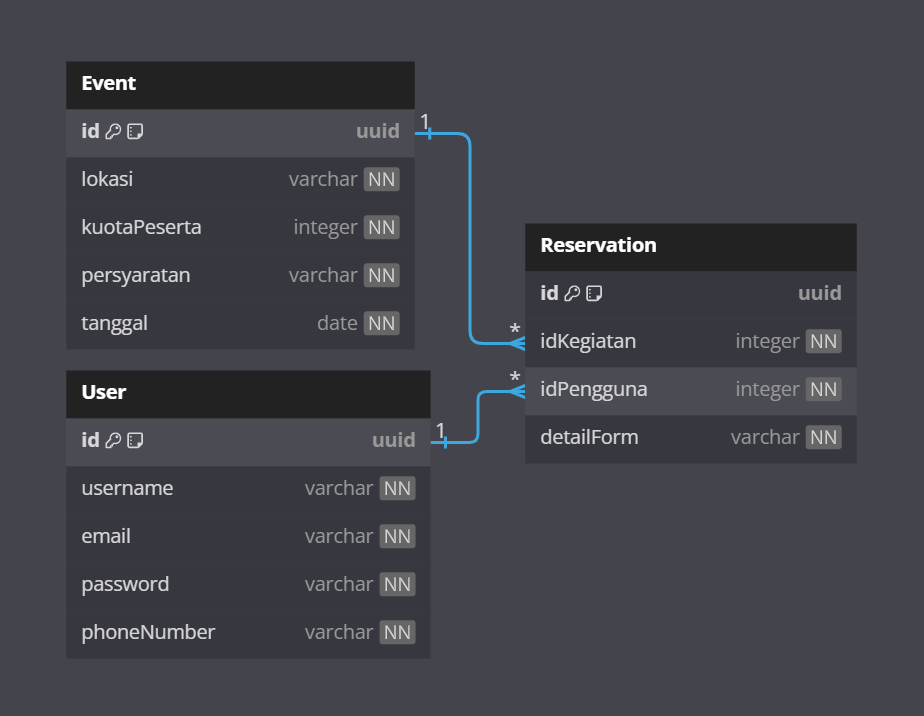
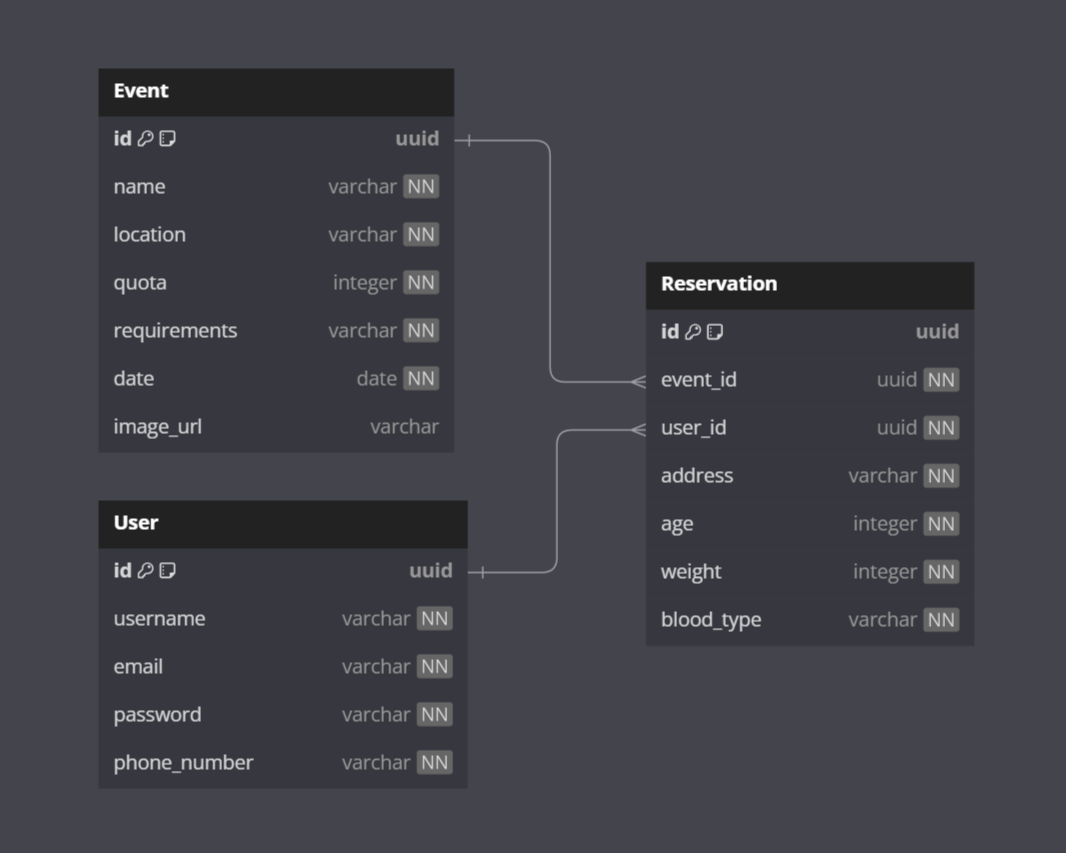
update readme & ERD

Changed region(s): [[0.0606, 0.0615, 0.9394, 0.7374], [0.0606, 0.4302, 0.5152, 0.9218], [0.0909, 0.3687, 0.2424, 0.3994]]

diff --git a/README.md b/README.md
@@ -1,23 +1,39 @@
 # blood-nation-backend
 BloodNation is an application designed to facilitate blood donation by helping users find locations for blood donation events and make reservations to participate in these events.
 
-**application build** :
-1. `npm init -y`
-2. `npm i sequelize`
-3. `npm i --save-dev sequelize-cli`
-4. `npm i pg`
-5. `npm i express`
-6. `npm i bcrypt`
-7. `npm i jsonwebtoken`
-8. `npm i dotenv`
-9. `npm i uuid-validate`
+## Installation
+1. Clone this repository
+```bash
+ git clone https://github.com/thecourtstats/court-app.git
+```
 
-**application sequelize cli** :
-1. `npx sequelize init`
-2. `npx sequelize db:create`
-3. `npx sequelize model:generate --name <table-name> --attributes <field>:<data-type>,<field>:<data-type>...`
-4. `npx sequelize db:migrate`
-→ `npx sequelize db:migrate:undo --name <migration--name>`
-5. `npx sequelize seed:generate --name <file-name>`
-6. `npx sequelize db:seed --seed <seeders-name>`
-→ `npx sequelize db:seed:undo --seed <seeders-name>`
+2. Get all dependencies
+```bash
+ npm install
+```
+
+3. Run the application
+```bash
+ npm run start
+```
+
+## Documentation
+The documentation is available on [Blood Nation API Docs](https://documenter.getpostman.com/view/31622292/2sA35LVfHq).
+
+## ERD
+This is the **Entity Relationship Diagram** of Blood Nation App.
+<img src="ERD.png" width="600" />
+
+</br>
+</br>
+
+**Application sequelize cli** :
+1. `npm init -y`
+2. `npx sequelize init`
+3. `npx sequelize db:create`
+4. `npx sequelize model:generate --name <table-name> --attributes <field>:<data-type>,<field>:<data-type>...`
+5. `npx sequelize db:migrate`
+/ `npx sequelize db:migrate:undo --name <migration--name>`
+6. `npx sequelize seed:generate --name <file-name>`
+7. `npx sequelize db:seed --seed <seeders-name>`
+/ `npx sequelize db:seed:undo --seed <seeders-name>`
